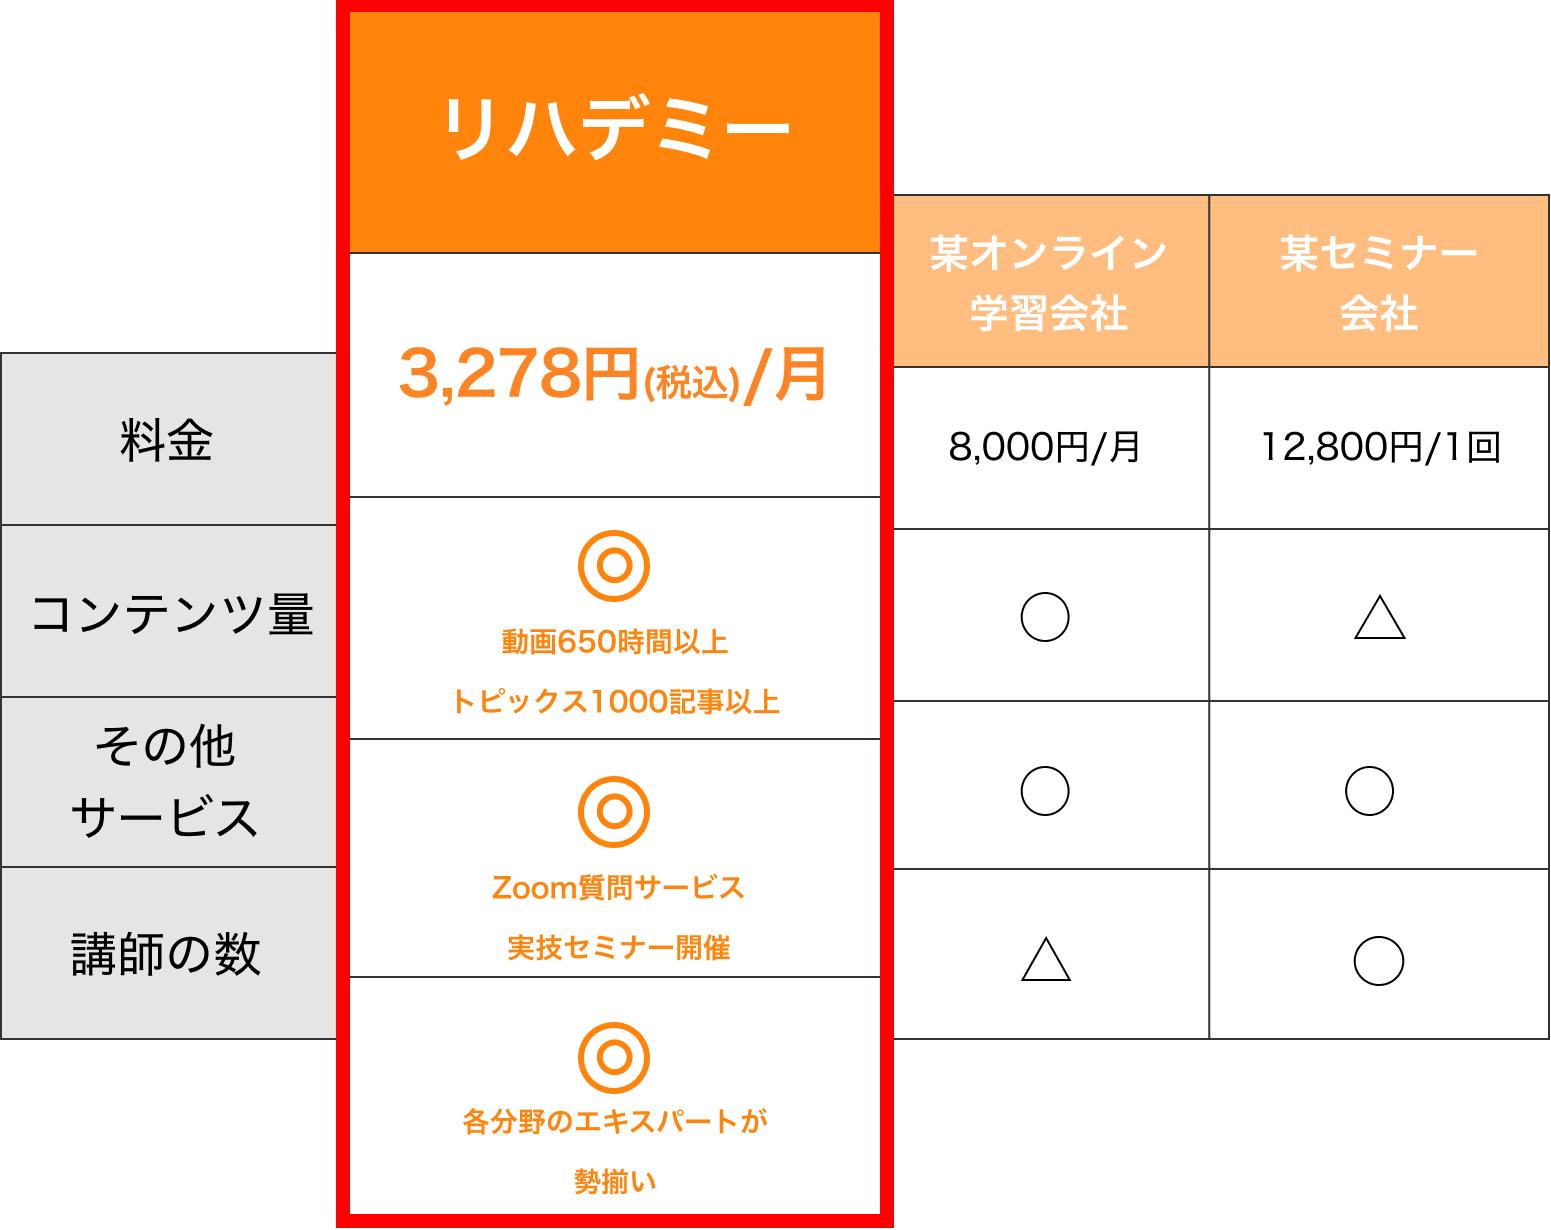
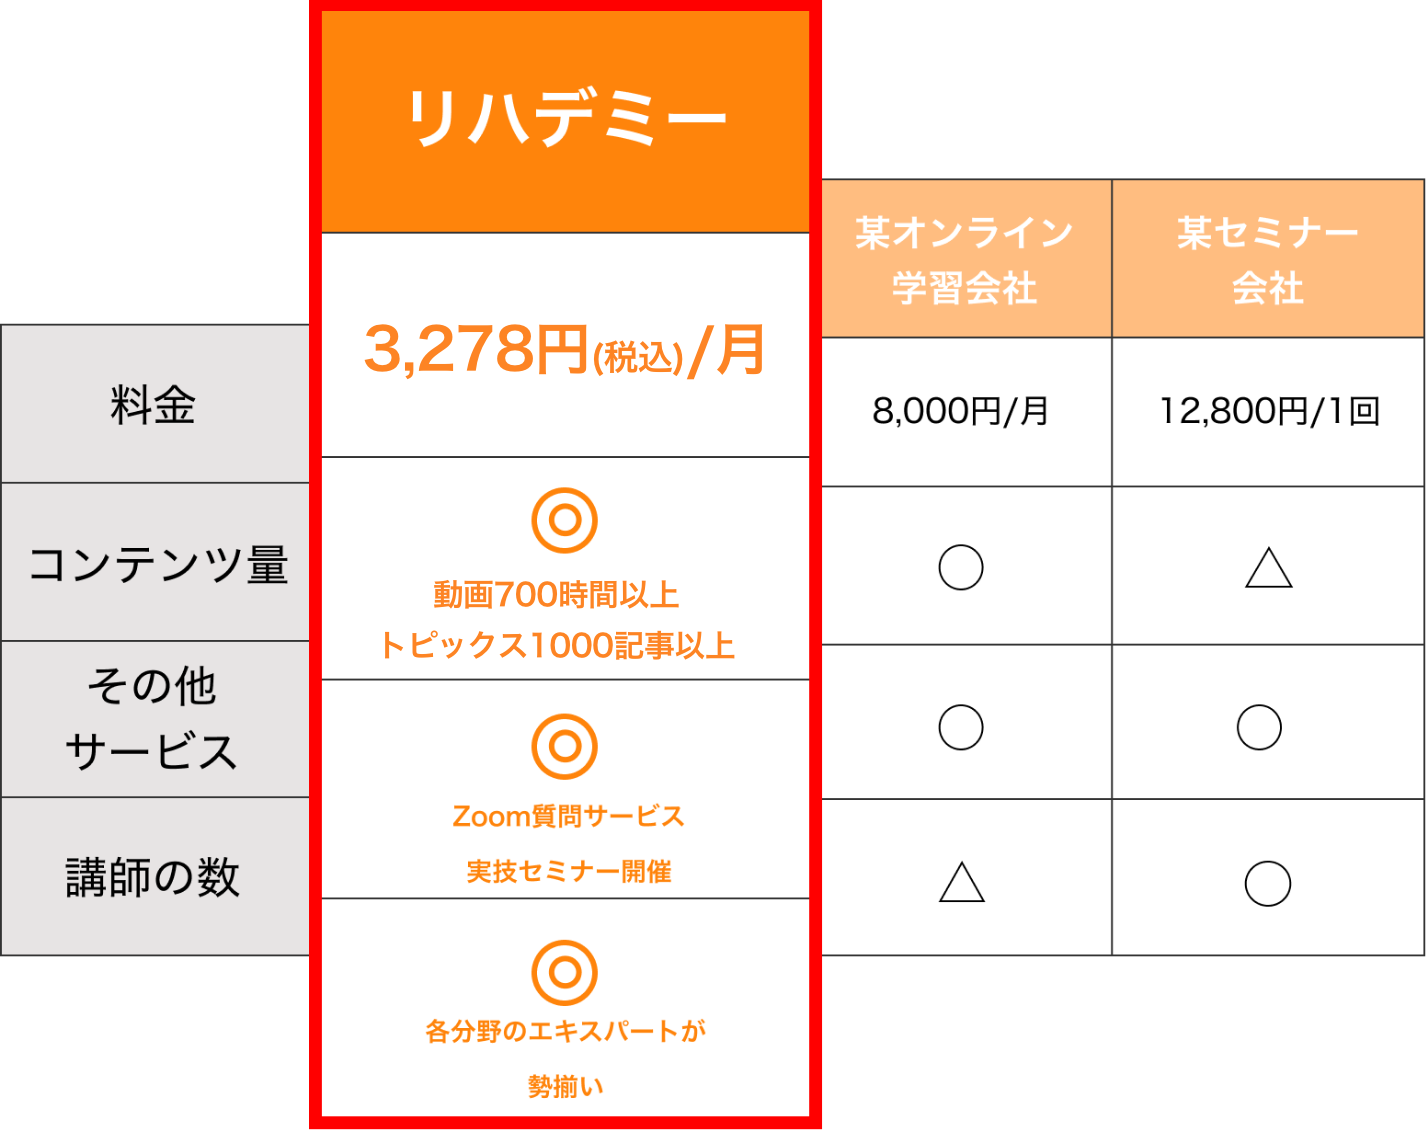
動画時間→700時間・記事数→1100記事

diff --git a/ad_fb/index.html b/ad_fb/index.html
@@ -567,7 +567,7 @@ height="0" width="0" style="display:none;visibility:hidden"></iframe></noscript>
             <div class="great_item_wrap">
                 <img src="./images/icon_2.png" alt="">
             </div>
-            <p class="orange fz18">動画650時間以上 記事1000以上！</p>
+            <p class="orange fz18">動画700時間以上 記事1100以上！</p>
         </li>
         <!-- <li class="great_item">
             <div class="great_item_wrap">
@@ -823,7 +823,7 @@ height="0" width="0" style="display:none;visibility:hidden"></iframe></noscript>
 <section id="contents" class="contents  component decoration">
     <h2 class="contents_title title_wrap"><span class="title">リハデミー内容を一部ご紹介！</span></h2>
     <div class="contents_subtitle orange_b">ラインナップ</div>
-    <div class="contents_pop fz20"><span class="br_pc contents_pop_deco" style="font-family: Arial">\ </span>動画650時間以上！<br class="br_sp"><span class="br_sp contents_pop_deco" style="font-family: Arial">\</span>トピックス1000記事以上！論文毎日更新！<span style="font-family: Arial">/</span></div>
+    <div class="contents_pop fz20"><span class="br_pc contents_pop_deco" style="font-family: Arial">\ </span>動画700時間以上！<br class="br_sp"><span class="br_sp contents_pop_deco" style="font-family: Arial">\</span>トピックス1100記事以上！論文毎日更新！<span style="font-family: Arial">/</span></div>
     <div class="contents_slider">
         <div class="contents_slider-container">
             <div class="swiper-container2">
@@ -1117,8 +1117,8 @@ height="0" width="0" style="display:none;visibility:hidden"></iframe></noscript>
     <div class="price_box">
         <p class="price_message fz25"><span style="font-family: Arial">\</span>  日々コンテンツ更新中 <span style="font-family: Arial">/</span></p>
         <ul class="price_list">
-            <li class="price_item fz20"><span class="orange_b marker fz24">動画650時間</span>以上が<span class="orange_b marker fz24">見放題</span></li>
-            <li class="price_item fz20"><span class="orange_b marker fz24">トピックス1000記事</span>以上が<span class="orange_b marker fz24">見放題</span></li>
+            <li class="price_item fz20"><span class="orange_b marker fz24">動画700時間</span>以上が<span class="orange_b marker fz24">見放題</span></li>
+            <li class="price_item fz20"><span class="orange_b marker fz24">トピックス1100記事</span>以上が<span class="orange_b marker fz24">見放題</span></li>
             <li class="price_item fz20"><span class="orange_b marker fz24">ZOOM個別質問</span>利用可能</li>
             <li class="price_item fz20"><span class="orange_b marker fz24">いつでもどこでも学習可能！</span></li>
         </ul>

diff --git a/ad_google/index.html b/ad_google/index.html
@@ -568,7 +568,7 @@ height="0" width="0" style="display:none;visibility:hidden"></iframe></noscript>
             <div class="great_item_wrap">
                 <img src="./images/icon_2.png" alt="">
             </div>
-            <p class="orange fz18">動画650時間以上 記事1000以上！</p>
+            <p class="orange fz18">動画700時間以上 記事1100以上！</p>
         </li>
         <!-- <li class="great_item">
             <div class="great_item_wrap">
@@ -824,7 +824,7 @@ height="0" width="0" style="display:none;visibility:hidden"></iframe></noscript>
 <section id="contents" class="contents  component decoration">
     <h2 class="contents_title title_wrap"><span class="title">リハデミー内容を一部ご紹介！</span></h2>
     <div class="contents_subtitle orange_b">ラインナップ</div>
-    <div class="contents_pop fz20"><span class="br_pc contents_pop_deco" style="font-family: Arial">\ </span>動画650時間以上！<br class="br_sp"><span class="br_sp contents_pop_deco" style="font-family: Arial">\</span>トピックス1000記事以上！論文毎日更新！<span style="font-family: Arial">/</span></div>
+    <div class="contents_pop fz20"><span class="br_pc contents_pop_deco" style="font-family: Arial">\ </span>動画700時間以上！<br class="br_sp"><span class="br_sp contents_pop_deco" style="font-family: Arial">\</span>トピックス1100記事以上！論文毎日更新！<span style="font-family: Arial">/</span></div>
     <div class="contents_slider">
         <div class="contents_slider-container">
             <div class="swiper-container2">
@@ -1118,8 +1118,8 @@ height="0" width="0" style="display:none;visibility:hidden"></iframe></noscript>
     <div class="price_box">
         <p class="price_message fz25"><span style="font-family: Arial">\</span>  日々コンテンツ更新中 <span style="font-family: Arial">/</span></p>
         <ul class="price_list">
-            <li class="price_item fz20"><span class="orange_b marker fz24">動画650時間</span>以上が<span class="orange_b marker fz24">見放題</span></li>
-            <li class="price_item fz20"><span class="orange_b marker fz24">トピックス1000記事</span>以上が<span class="orange_b marker fz24">見放題</span></li>
+            <li class="price_item fz20"><span class="orange_b marker fz24">動画700時間</span>以上が<span class="orange_b marker fz24">見放題</span></li>
+            <li class="price_item fz20"><span class="orange_b marker fz24">トピックス1100記事</span>以上が<span class="orange_b marker fz24">見放題</span></li>
             <li class="price_item fz20"><span class="orange_b marker fz24">ZOOM個別質問</span>利用可能</li>
             <li class="price_item fz20"><span class="orange_b marker fz24">いつでもどこでも学習可能！</span></li>
         </ul>

diff --git a/ad_yahoo/index.html b/ad_yahoo/index.html
@@ -588,7 +588,7 @@ height="0" width="0" style="display:none;visibility:hidden"></iframe></noscript>
             <div class="great_item_wrap">
                 <img src="./images/icon_2.png" alt="">
             </div>
-            <p class="orange fz18">動画650時間以上 記事1000以上！</p>
+            <p class="orange fz18">動画700時間以上 記事1100以上！</p>
         </li>
         <!-- <li class="great_item">
             <div class="great_item_wrap">
@@ -844,7 +844,7 @@ height="0" width="0" style="display:none;visibility:hidden"></iframe></noscript>
 <section id="contents" class="contents  component decoration">
     <h2 class="contents_title title_wrap"><span class="title">リハデミー内容を一部ご紹介！</span></h2>
     <div class="contents_subtitle orange_b">ラインナップ</div>
-    <div class="contents_pop fz20"><span class="br_pc contents_pop_deco" style="font-family: Arial">\ </span>動画650時間以上！<br class="br_sp"><span class="br_sp contents_pop_deco" style="font-family: Arial">\</span>トピックス1000記事以上！論文毎日更新！<span style="font-family: Arial">/</span></div>
+    <div class="contents_pop fz20"><span class="br_pc contents_pop_deco" style="font-family: Arial">\ </span>動画700時間以上！<br class="br_sp"><span class="br_sp contents_pop_deco" style="font-family: Arial">\</span>トピックス1100記事以上！論文毎日更新！<span style="font-family: Arial">/</span></div>
     <div class="contents_slider">
         <div class="contents_slider-container">
             <div class="swiper-container2">
@@ -1138,8 +1138,8 @@ height="0" width="0" style="display:none;visibility:hidden"></iframe></noscript>
     <div class="price_box">
         <p class="price_message fz25"><span style="font-family: Arial">\</span>  日々コンテンツ更新中 <span style="font-family: Arial">/</span></p>
         <ul class="price_list">
-            <li class="price_item fz20"><span class="orange_b marker fz24">動画650時間</span>以上が<span class="orange_b marker fz24">見放題</span></li>
-            <li class="price_item fz20"><span class="orange_b marker fz24">トピックス1000記事</span>以上が<span class="orange_b marker fz24">見放題</span></li>
+            <li class="price_item fz20"><span class="orange_b marker fz24">動画700時間</span>以上が<span class="orange_b marker fz24">見放題</span></li>
+            <li class="price_item fz20"><span class="orange_b marker fz24">トピックス1100記事</span>以上が<span class="orange_b marker fz24">見放題</span></li>
             <li class="price_item fz20"><span class="orange_b marker fz24">ZOOM個別質問</span>利用可能</li>
             <li class="price_item fz20"><span class="orange_b marker fz24">いつでもどこでも学習可能！</span></li>
         </ul>

diff --git a/dist/index.html b/dist/index.html
@@ -484,7 +484,7 @@
             <div class="great_item_wrap">
                 <img src="./images/icon_2.png" alt="">
             </div>
-            <p class="orange fz18">動画650時間以上 記事1000以上！</p>
+            <p class="orange fz18">動画700時間以上 記事1100以上！</p>
         </li>
         <!-- <li class="great_item">
             <div class="great_item_wrap">
@@ -739,7 +739,7 @@
 <section id="contents" class="contents  component decoration">
     <h2 class="contents_title title_wrap"><span class="title">リハデミー内容を一部ご紹介！</span></h2>
     <div class="contents_subtitle orange_b">ラインナップ</div>
-    <div class="contents_pop fz20"><span class="br_pc contents_pop_deco" style="font-family: Arial">\ </span>動画650時間以上！<br class="br_sp"><span class="br_sp contents_pop_deco" style="font-family: Arial">\</span>トピックス1000記事以上！論文毎日更新！<span style="font-family: Arial">/</span></div>
+    <div class="contents_pop fz20"><span class="br_pc contents_pop_deco" style="font-family: Arial">\ </span>動画700時間以上！<br class="br_sp"><span class="br_sp contents_pop_deco" style="font-family: Arial">\</span>トピックス1100記事以上！論文毎日更新！<span style="font-family: Arial">/</span></div>
     <div class="contents_slider">
         <div class="contents_slider-container">
             <div class="swiper-container2">
@@ -1032,8 +1032,8 @@
     <div class="price_box">
         <p class="price_message fz25"><span style="font-family: Arial">\</span>  日々コンテンツ更新中 <span style="font-family: Arial">/</span></p>
         <ul class="price_list">
-            <li class="price_item fz20"><span class="orange_b marker fz24">動画650時間</span>以上が<span class="orange_b marker fz24">見放題</span></li>
-            <li class="price_item fz20"><span class="orange_b marker fz24">トピックス1000記事</span>以上が<span class="orange_b marker fz24">見放題</span></li>
+            <li class="price_item fz20"><span class="orange_b marker fz24">動画700時間</span>以上が<span class="orange_b marker fz24">見放題</span></li>
+            <li class="price_item fz20"><span class="orange_b marker fz24">トピックス1100記事</span>以上が<span class="orange_b marker fz24">見放題</span></li>
             <li class="price_item fz20"><span class="orange_b marker fz24">ZOOM個別質問</span>利用可能</li>
             <li class="price_item fz20"><span class="orange_b marker fz24">いつでもどこでも学習可能！</span></li>
         </ul>
